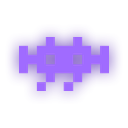
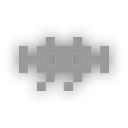
feat(markers): Not visible is grey by default in State mode
Same grey as Destroyed; the ghost shape still tells them apart.

Changed region(s): [[0.125, 0.2812, 0.875, 0.7188]]

diff --git a/frontend/src/features/settings/marker-customization-store.ts b/frontend/src/features/settings/marker-customization-store.ts
@@ -43,7 +43,7 @@ export const DEFAULT_STATE_COLORS: StateColorPrefs = {
   damaged: { icon: '#FF9F1C', glow: '#B35400' },
   reactivated: { icon: '#FF2BD6', glow: '#7A0099' },
   destroyed: { icon: '#9A9A9A', glow: '#555555' },
-  notVisible: { icon: '#A06BFF', glow: '#5A2DB3' },
+  notVisible: { icon: '#9A9A9A', glow: '#555555' },
 };
 
 export const DEFAULT_MARKER_COLORS: MarkerColorPrefs = {
